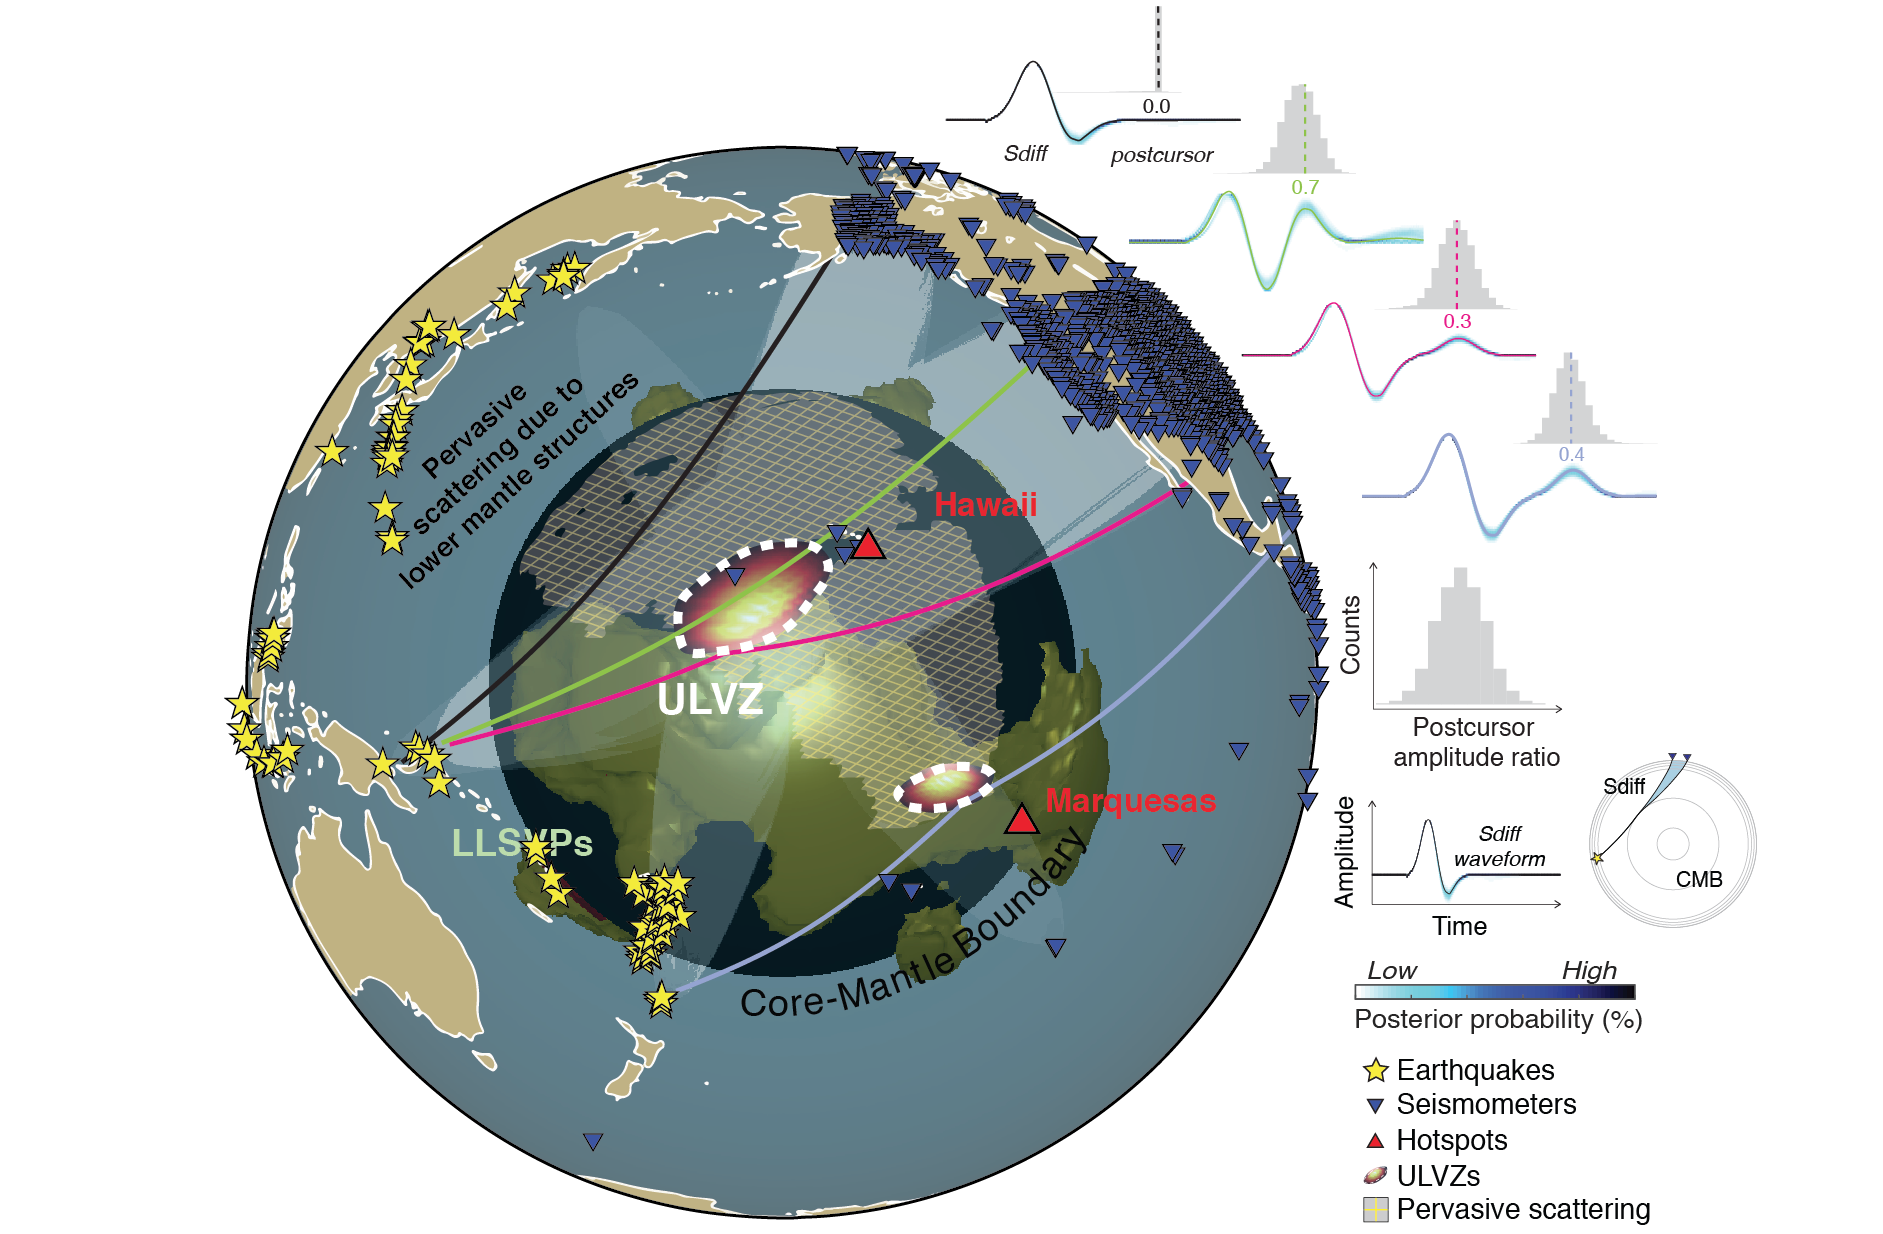
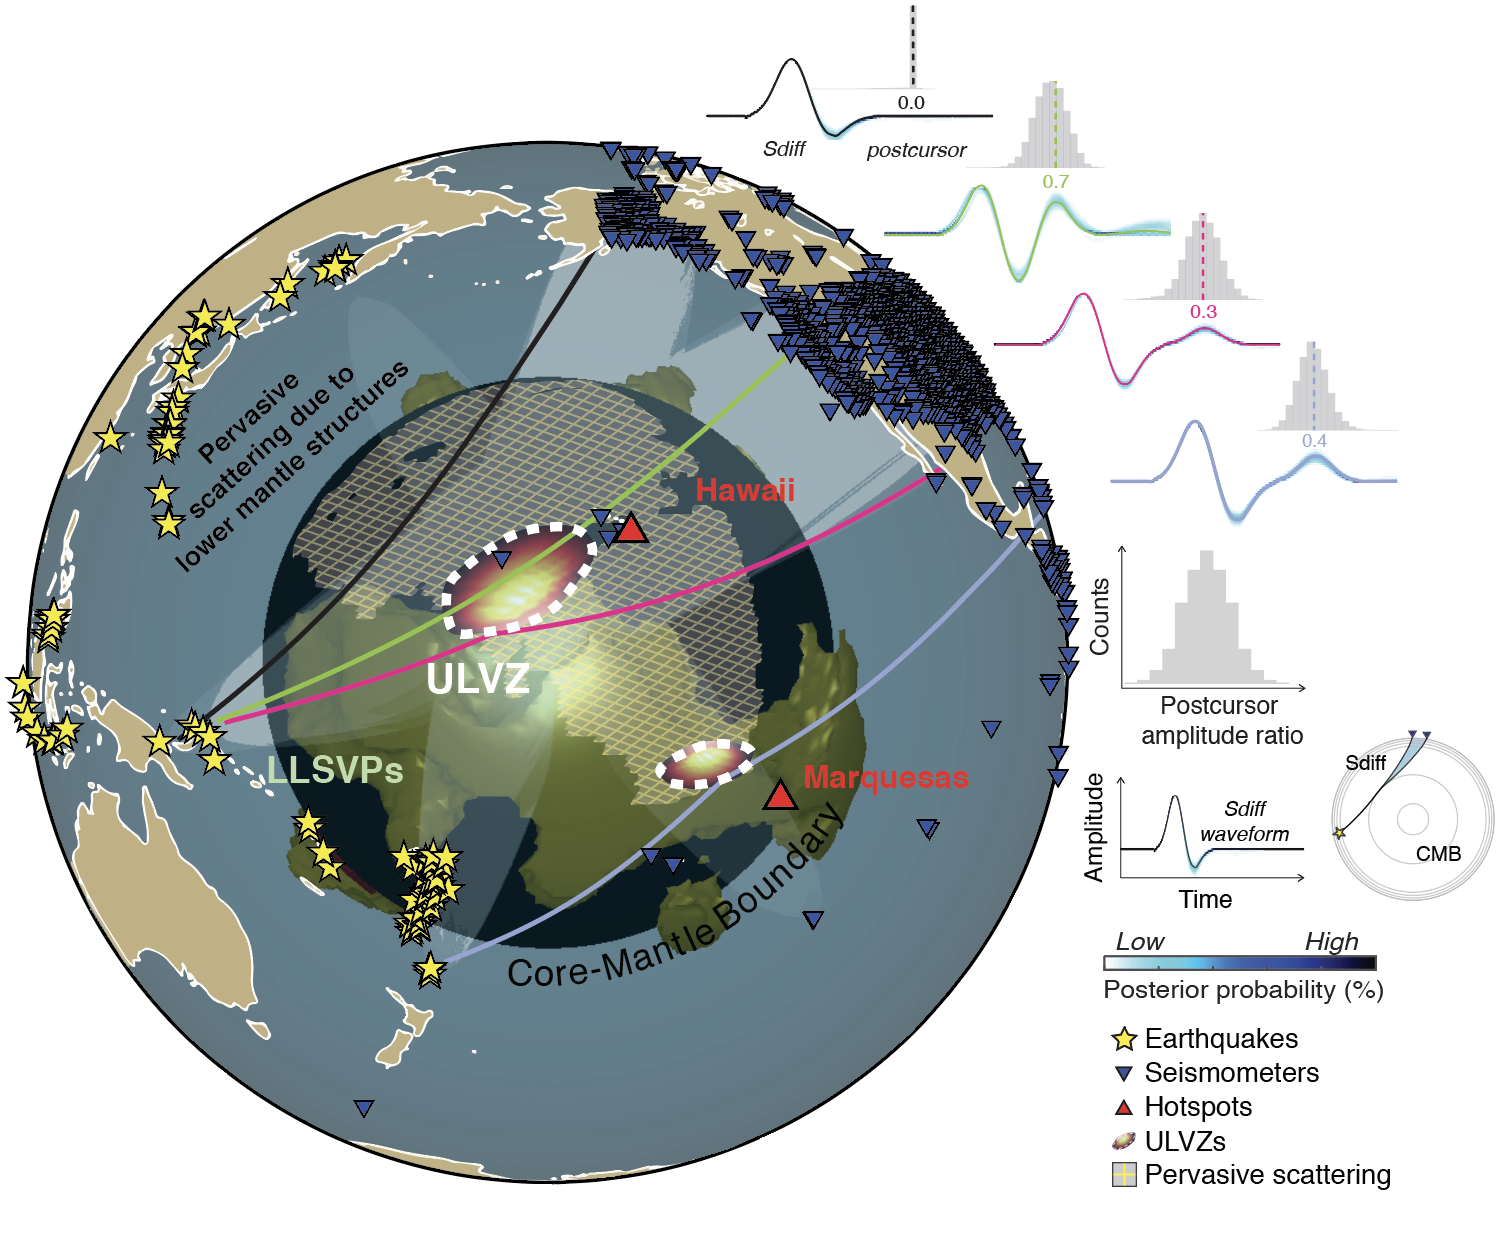
webpage update9

diff --git a/sequencing_seismograms.html b/sequencing_seismograms.html
@@ -57,7 +57,7 @@
         		</div>
 
 			<div class="col-lg-6">
-        <p align="justify">Many seismic phases are used in previous ULVZ studies. Because these phases (e.g., ScS, SPdKS, Sdiff, etc.) directly interact with the core-mantle boundary region, we are able to detect and model such anomalous structures. In this study we focused on shear waves diffracting along the core-mantle boundary (Sdiff), because they sample large areas at the base of the mantle. Waves scattered by heterogeneity in this region arrive after the main Sdiff phase, so the timing and amplitude of these Sdiff "postcursors" can constrain the location and nature of structures producing the scattering. To avoid any other bodywave traffic in the analysis window, we selected only events with hypocenter depth greater than 200 km. Source radiation pattern effects and highlighted signals not predicted by PREM are deconvolved from the raw data.</p>
+        <p align="justify">Many seismic phases are used in previous ULVZ studies. Because these phases (e.g., ScS, SPdKS, Sdiff, etc.) directly interact with the core-mantle boundary region, we are able to detect and model such anomalous structures. In this study we focused on shear waves diffracting along the core-mantle boundary (Sdiff), because they sample large areas at the base of the mantle. Waves scattered by heterogeneity in this region arrive after the main Sdiff phase, so the timing and amplitude of these Sdiff "postcursors" can constrain the location and nature of structures producing the scattering. Generating the large amplitude postcursors requires low-velocity compact anomalies based on two main reasons. First, low velocity anomalies can amplify the postcursors by focusing. Second, waves transmitted through the anomalies and delayed by them play a significant role producing such large amplitude postcursors. This is because what started out as the original Sdiff wavefront is delayed to produce postcursors, while what we interpret as the main Sdiff arriving before the postcursors is actually a relatively weaker phase produced by wavefront healing.</p>
 			</div>
 
 		       	<div class="col-lg-6" mb-6 mb-lg-0">
@@ -75,6 +75,20 @@
 
 			<div class="col-lg-6">
              		<img src="images_science/sequencer.JPG" alt="Image" class="img-fluid">
+        		</div>
+
+	
+			<div class="col-lg-10">
+        		<h5>Systematic Search for Sdiff Postcursors</h5>
+        		</div>
+
+			<div class="col-lg-6">
+        <p align="justify">We conduct a large-scale systematic search for seismic waves scattered by heterogeneity near the CMB across the Pacific. We used Mw > 6.5 earthquakes recorded by broadband seismic stations operating during 1990-2018. Because energy reflected from the surface can complicate the identification of Sdiff postcursors, we restricted our attention to waveforms from events with hypocenter depth greater than 200 km. Source radiation pattern effects and highlighted signals not predicted by PREM are deconvolved from the raw data. This yielded a dataset of about 7500 transverse component waveforms. Ordering these waveforms by geometrical parameters such as azimuth or epicentral distance only makes sense locally and is not useful when working with data spanning large geographic areas.
+</p>
+			</div>
+
+			<div class="col-lg-6">
+             		<img src="images_science/allpaths.JPG" alt="Image" class="img-fluid">
         		</div>
 
 		
